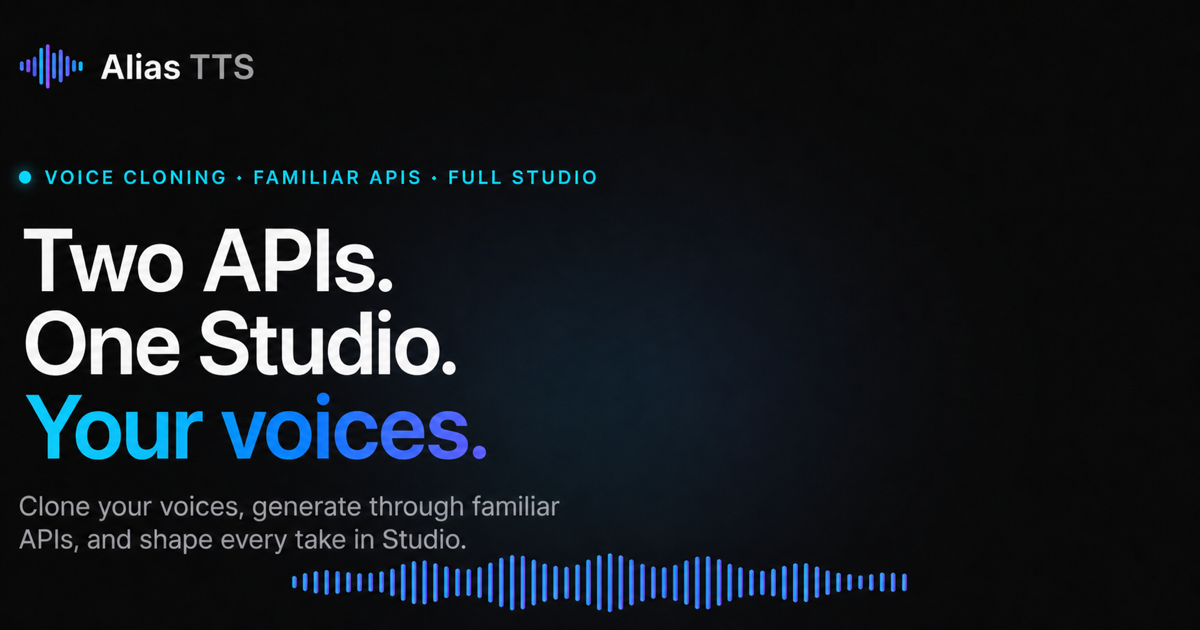
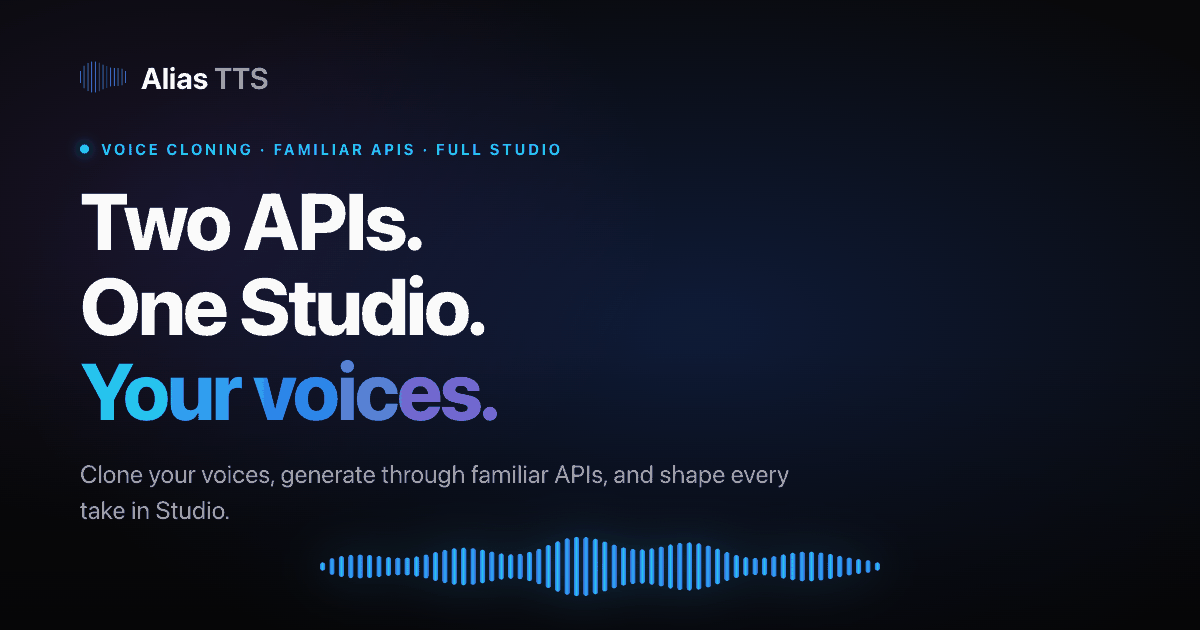
feat(social): add invite + reset OG cards, recreate main OG image
Rebuild alias-tts-og.png from clean HTML+screenshot so it matches the
about/verify cards (the hand-edited copy had the right words but a rougher
look). Add two new 1200x630 share cards — alias-tts-invite-og.png and
alias-tts-reset-og.png — and wire them into auth/set-password.blade.php,
the single view behind both the invite link and a force-password-reset:
STATUS_INVITED shows the "You're invited" card, an active user resetting
shows "Welcome back", each with a matching title/description. Cards carry
no PII, so previewing a signed link in Slack/iMessage leaks nothing, and a
preview bot's GET never spends the single-use link. PNGs quantized to a
256-color palette (~65% smaller, ~120KB, in line with the verify card).

Changed region(s): [[0.0, 0.0603, 0.7708, 0.9651], [0.6475, 0.2714, 0.8633, 0.6333]]

diff --git a/tests/Feature/UsersTest.php b/tests/Feature/UsersTest.php
@@ -185,6 +185,39 @@ class UsersTest extends TestCase
         $this->assertAuthenticatedAs($invited->fresh());
     }
 
+    public function test_invite_link_previews_the_invite_social_card(): void
+    {
+        $invited = User::factory()->create(['status' => 'invited', 'password' => 'unusable']);
+
+        $signed = URL::temporarySignedRoute('invite.accept', now()->addDay(), [
+            'user' => $invited->id,
+            'fp' => InvitationController::linkFingerprint($invited),
+        ]);
+
+        $this->get($signed)
+            ->assertOk()
+            ->assertSee('images/social/alias-tts-invite-og.png')
+            ->assertSee('Create your account')
+            ->assertDontSee('alias-tts-reset-og.png');
+    }
+
+    public function test_force_reset_link_previews_the_reset_social_card(): void
+    {
+        // A force-reset targets an existing active user, so the page shows the
+        // "welcome back" reset card, not the new-user invite card.
+        $active = User::factory()->create(['status' => 'active', 'password' => 'unusable']);
+
+        $signed = URL::temporarySignedRoute('invite.accept', now()->addDay(), [
+            'user' => $active->id,
+            'fp' => InvitationController::linkFingerprint($active),
+        ]);
+
+        $this->get($signed)
+            ->assertOk()
+            ->assertSee('images/social/alias-tts-reset-og.png')
+            ->assertDontSee('alias-tts-invite-og.png');
+    }
+
     public function test_a_set_password_link_cannot_be_used_a_second_time(): void
     {
         $invited = User::factory()->create(['status' => 'invited', 'password' => 'unusable']);

diff --git a/resources/views/auth/set-password.blade.php b/resources/views/auth/set-password.blade.php
@@ -3,7 +3,15 @@
 <head>
     <meta charset="utf-8">
     <meta name="viewport" content="width=device-width, initial-scale=1">
-    <title>Set your password — Alias TTS</title>
+    @php $isInvite = $user->status === \App\Models\User::STATUS_INVITED; @endphp
+    <title>{{ $isInvite ? "You're invited — Alias TTS" : 'Set your password — Alias TTS' }}</title>
+    @include('partials.social-meta', [
+        'metaTitle'       => $isInvite ? "You're invited to Alias TTS" : 'Set your password — Alias TTS',
+        'metaDescription' => $isInvite
+            ? 'Create your account — clone voices, keep your API integration, and finish every take in Studio.'
+            : 'Set a new password and sign back in to Alias TTS.',
+        'metaImage'       => $isInvite ? 'images/social/alias-tts-invite-og.png' : 'images/social/alias-tts-reset-og.png',
+    ])
     <link rel="icon" href="{{ asset('favicon.ico') }}" sizes="32x32">
     <link rel="icon" href="{{ asset('alias-icon.svg') }}" type="image/svg+xml">
     <link rel="apple-touch-icon" href="{{ asset('apple-touch-icon.png') }}">
